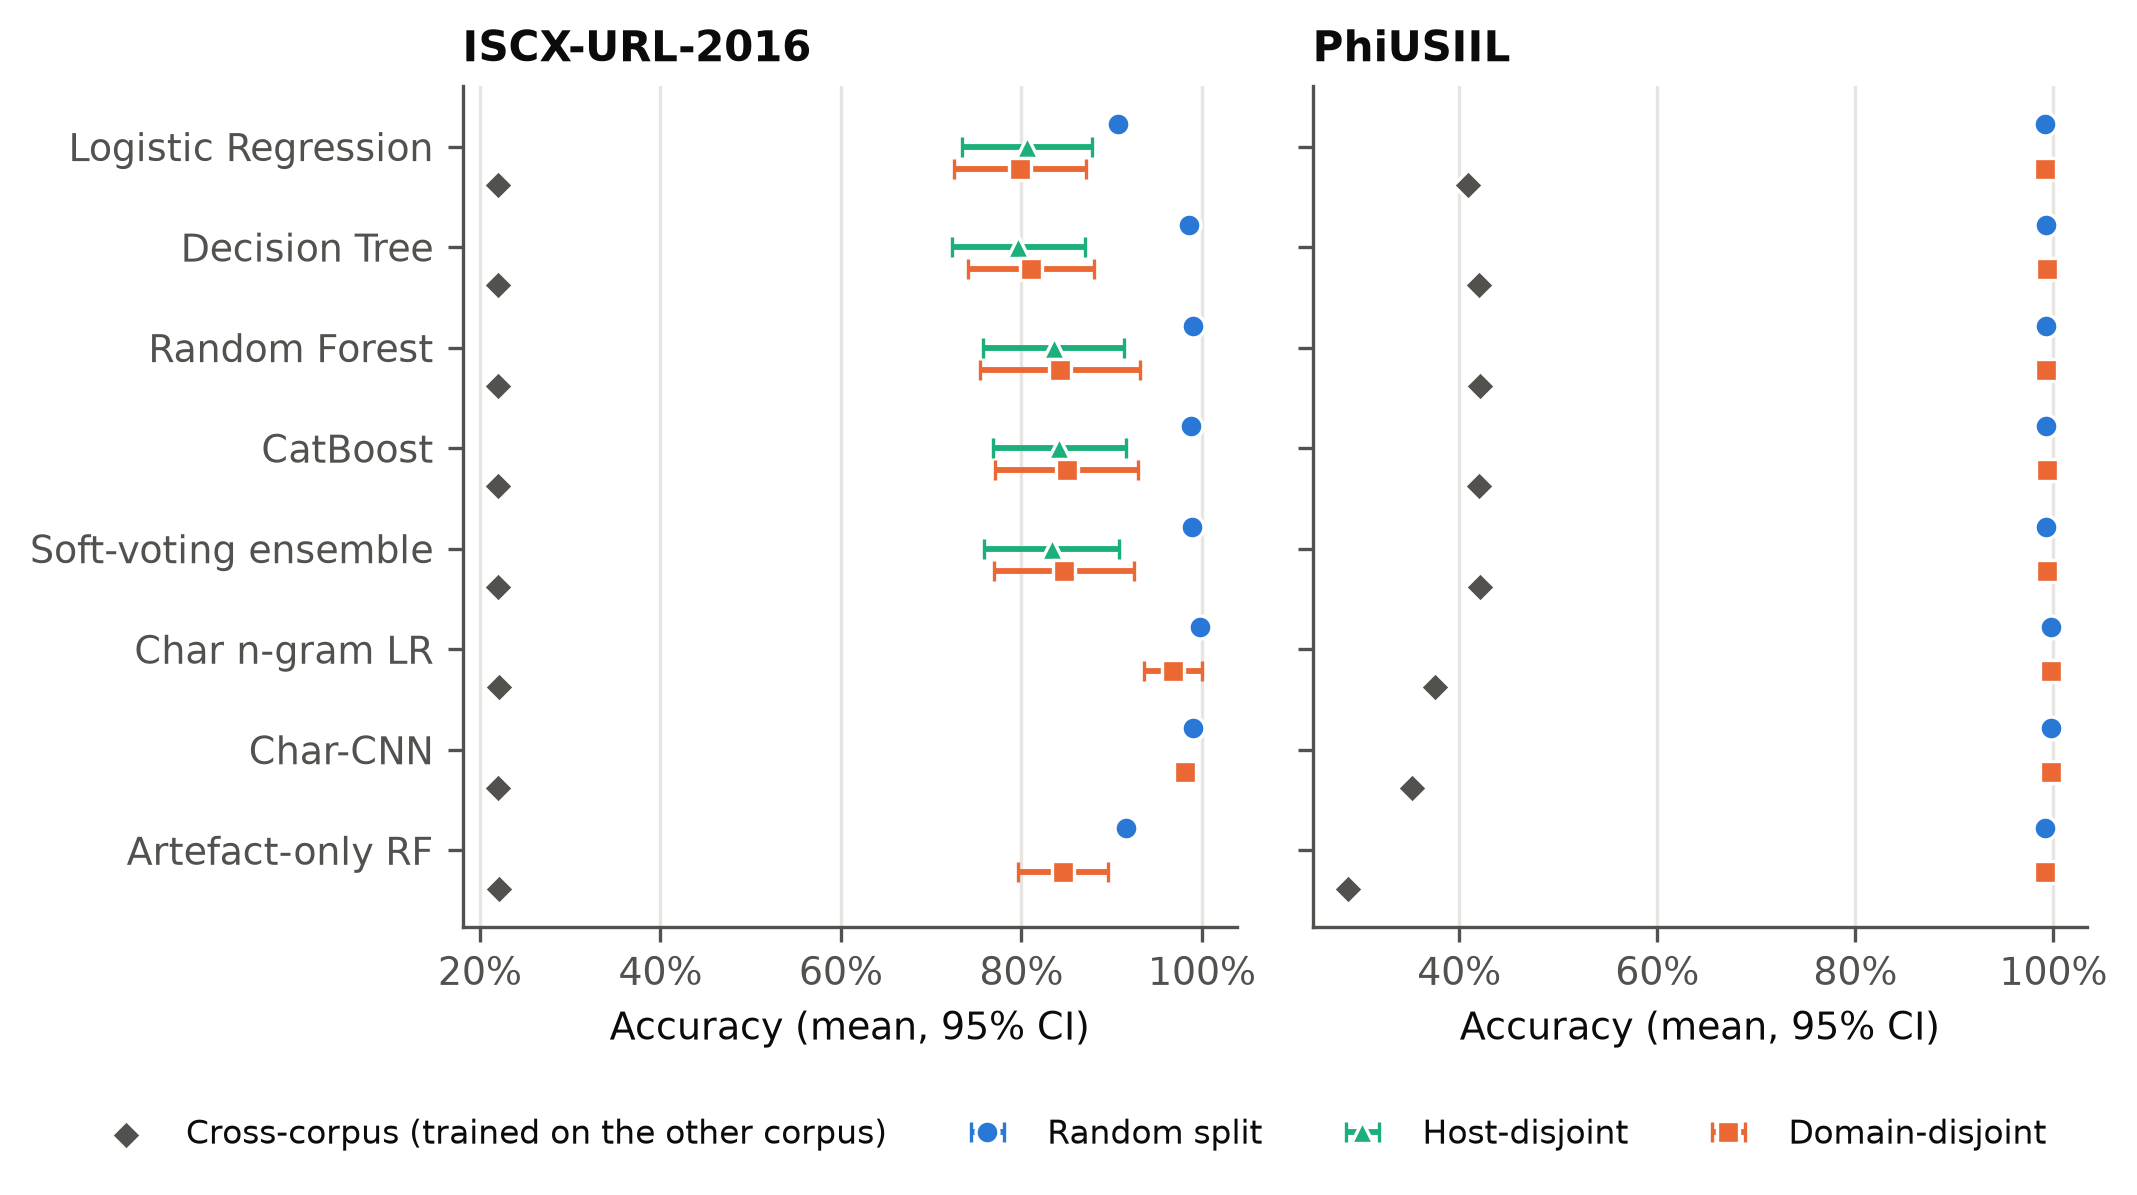
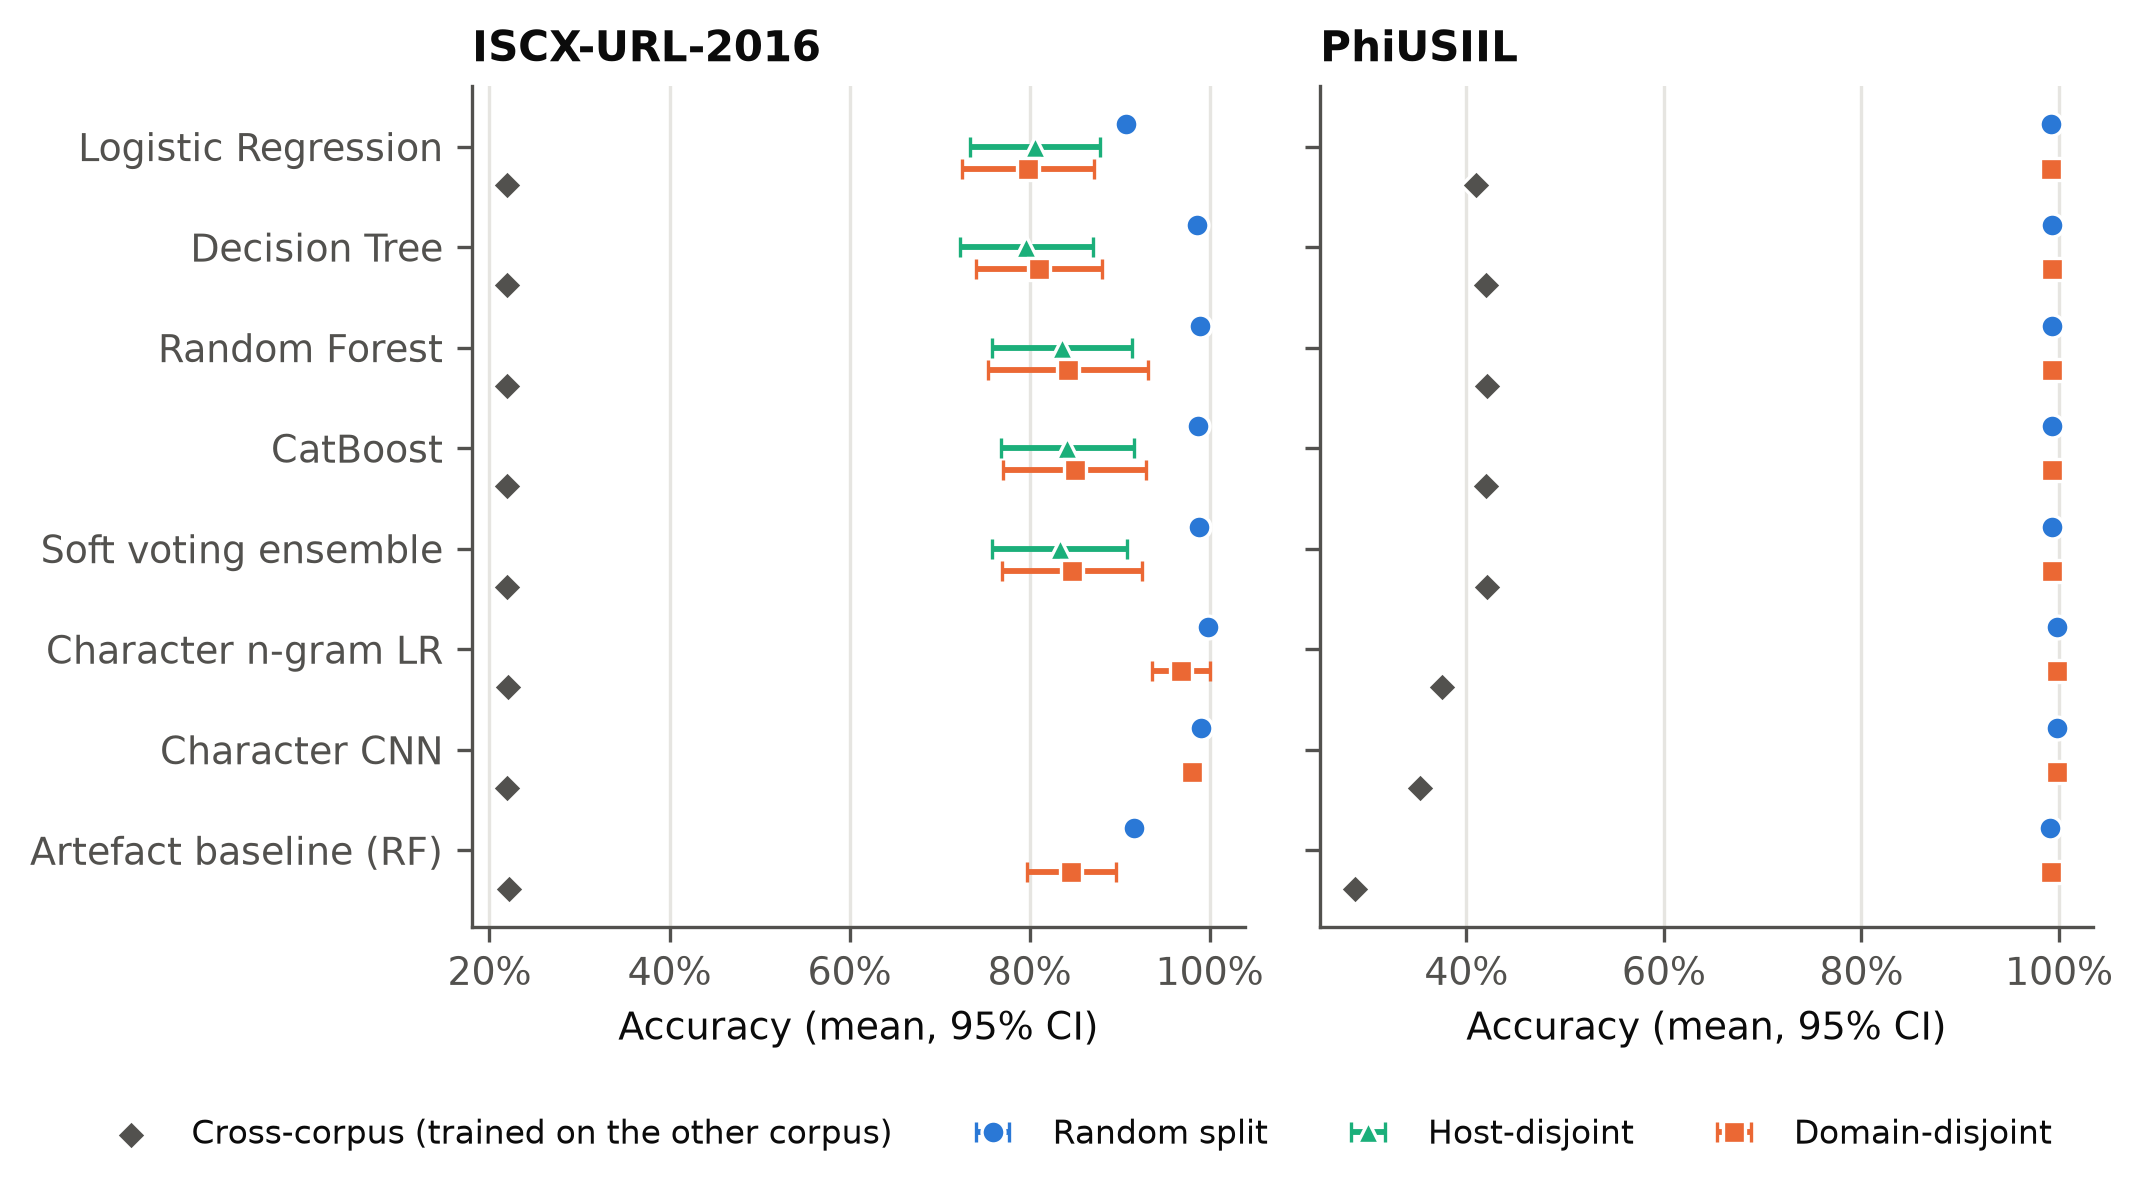
Use plain model names in the evaluation ladder figure

diff --git a/analysis.py b/analysis.py
@@ -24,6 +24,8 @@ ARTEFACT_NAME = 'Artefact-only RF'
 ENS = up.ENSEMBLE_NAME
 FEATURE_MODELS = up.BASE_MODELS + [ENS]
 METRICS = ['accuracy', 'f1_macro', 'roc_auc']
+FIGURE_NAMES = {ENS: 'Soft voting ensemble', NGRAM_NAME: 'Character n-gram LR', CNN_NAME: 'Character CNN',
+                ARTEFACT_NAME: 'Artefact baseline (RF)'}
 PROTOCOL_LABEL = {'random': 'Random split', 'host': 'Host-disjoint', 'domain': 'Domain-disjoint',
                   'cross-corpus': 'Cross-corpus'}
 # validated categorical palette (blue, orange, aqua); see README
@@ -327,7 +329,7 @@ def fig_ladder(summ, cross, out):
             c = c[c['model'].isin(present)]
             ax.scatter(c['accuracy'], [ypos[m] - 0.38 for m in c['model']], marker='D', s=26, color=INK2,
                        edgecolor='white', linewidth=0.8, label='Cross-corpus (trained on the other corpus)', zorder=3)
-        ax.set_yticks(list(ypos.values())); ax.set_yticklabels(list(ypos.keys()))
+        ax.set_yticks(list(ypos.values())); ax.set_yticklabels([FIGURE_NAMES.get(m, m) for m in ypos])
         ax.set_title(corpus); ax.set_xlabel('Accuracy (mean, 95% CI)')
         ax.xaxis.set_major_formatter(plt.FuncFormatter(lambda v, _: f'{v:.0%}'))
         ax.grid(axis='y', visible=False)
